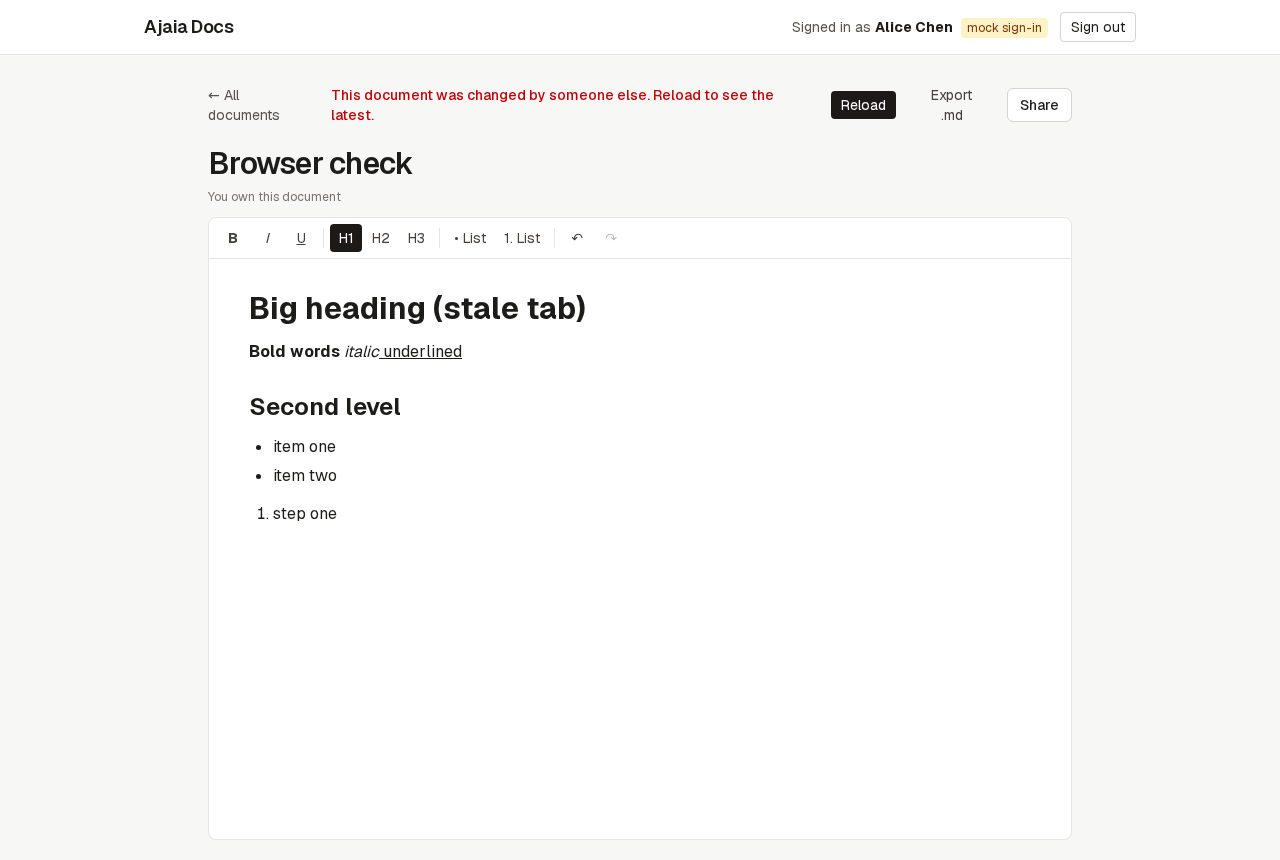
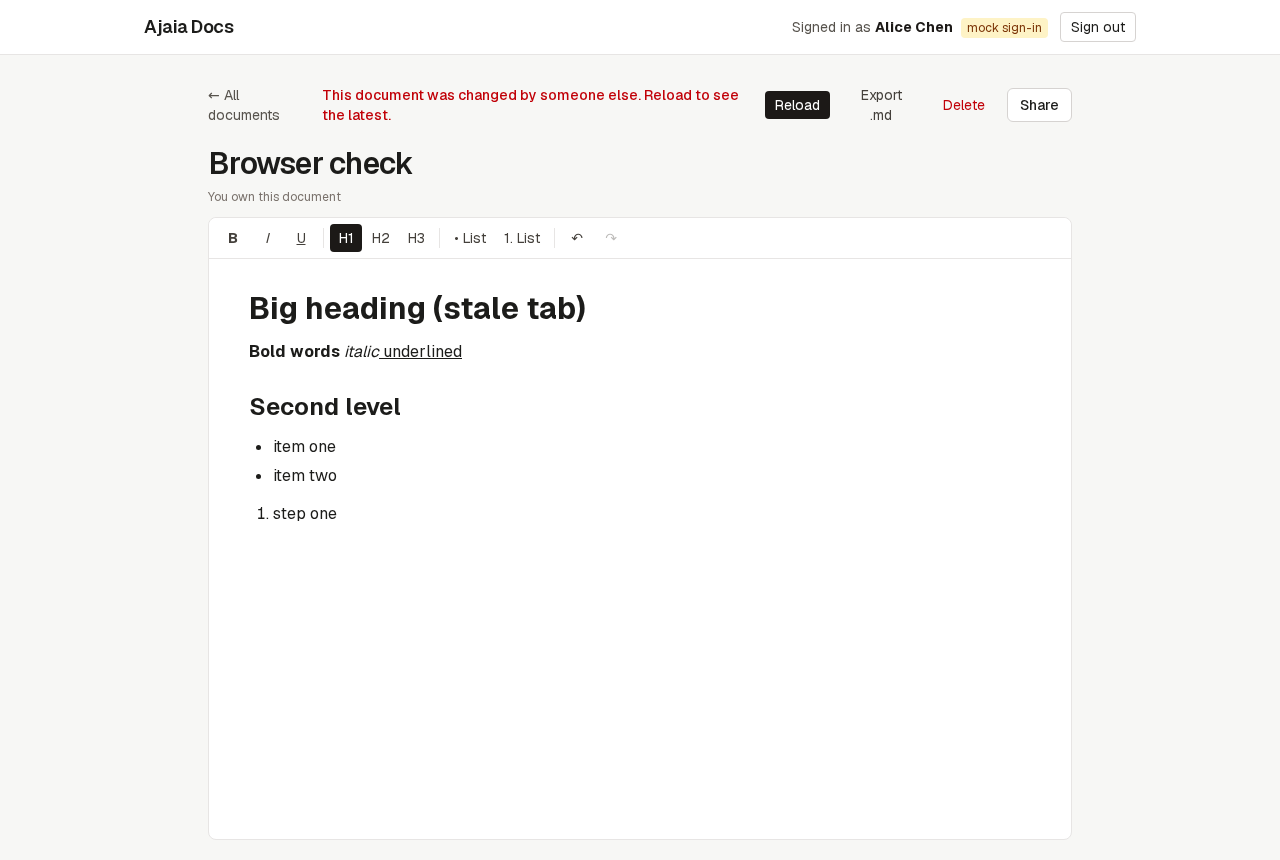
Second review fixes: owner delete button, dead code, doc accuracy; walkthrough script
- Delete button for owners (confirm, stop autosave, back home); browser
  check now deletes through the UI: 22/22 locally.
- Drop the undocumented .markdown alias and the unused UPLOAD_TYPES
  export so code matches what the UI and README promise.
- Remove unused create-next-app SVGs; add engines (Node >= 22).
- Correct the AI note: the plan was drafted in the first three minutes of
  the clock (plan file saved 7:46 PM), not before it.
- README: free-to-run line, typecheck command, screenshot links.

Changed region(s): [[0.25, 0.0907, 0.7812, 0.1512]]

diff --git a/components/DocEditor.tsx b/components/DocEditor.tsx
@@ -2,6 +2,7 @@
 
 import { EditorContent, useEditor } from "@tiptap/react";
 import Link from "next/link";
+import { useRouter } from "next/navigation";
 import { useCallback, useEffect, useRef, useState } from "react";
 import type { Role, Share, User } from "@/lib/db/types";
 import { extensions } from "@/lib/editor/extensions";
@@ -34,6 +35,8 @@ export function DocEditor({ doc, role, initialShares, shareCandidates }: Props) 
   const [errorDetail, setErrorDetail] = useState<string | null>(null);
   const [shareOpen, setShareOpen] = useState(false);
   const [currentTitle, setCurrentTitle] = useState(doc.title);
+  const router = useRouter();
+
 
   async function exportMarkdown() {
     if (!editor) return;
@@ -139,6 +142,22 @@ export function DocEditor({ doc, role, initialShares, shareCandidates }: Props) 
     };
   }, []);
 
+  async function deleteDoc() {
+    if (!window.confirm(`Delete "${currentTitle}"? This can't be undone.`)) return;
+    stopped.current = true; // no autosave into a deleted document
+    if (timer.current) clearTimeout(timer.current);
+    timer.current = null;
+    const res = await fetch(`/api/documents/${doc.id}`, { method: "DELETE" });
+    if (!res.ok) {
+      stopped.current = false;
+      setErrorDetail("Couldn't delete the document.");
+      setStatus("error");
+      return;
+    }
+    router.push("/");
+    router.refresh();
+  }
+
   return (
     <main className="mx-auto w-full max-w-4xl flex-1 px-4 py-6">
       <div className="mb-3 flex items-center justify-between gap-4 text-sm">
@@ -179,6 +198,11 @@ export function DocEditor({ doc, role, initialShares, shareCandidates }: Props) 
           >
             Export .md
           </button>
+          {role === "owner" && (
+            <button className="rounded-md px-2.5 py-1.5 text-red-700 hover:bg-red-50" onClick={deleteDoc}>
+              Delete
+            </button>
+          )}
           {role === "owner" && (
             <button
               className="rounded-md border border-stone-300 bg-white px-3 py-1.5 font-medium hover:bg-stone-100"

diff --git a/components/UploadButton.tsx b/components/UploadButton.tsx
@@ -3,7 +3,7 @@
 import { useRouter } from "next/navigation";
 import { useRef, useState } from "react";
 
-const ACCEPT = ".txt,.md,.markdown,.docx,text/plain,text/markdown,application/vnd.openxmlformats-officedocument.wordprocessingml.document";
+const ACCEPT = ".txt,.md,.docx,text/plain,text/markdown,application/vnd.openxmlformats-officedocument.wordprocessingml.document";
 
 export function UploadButton() {
   const router = useRouter();

diff --git a/tests/import.test.ts b/tests/import.test.ts
@@ -53,7 +53,7 @@ describe("file name helpers", () => {
   it("kindFromName", () => {
     expect(kindFromName("a.TXT")).toBe("txt");
     expect(kindFromName("a.md")).toBe("md");
-    expect(kindFromName("a.markdown")).toBe("md");
+    expect(kindFromName("a.markdown")).toBeNull(); // only the types the UI and README promise
     expect(kindFromName("a.docx")).toBe("docx");
     expect(kindFromName("a.pdf")).toBeNull();
   });

diff --git a/lib/import.ts b/lib/import.ts
@@ -112,7 +112,6 @@ export async function importFile(kind: ImportKind, data: Buffer): Promise<unknow
 export function kindFromName(name: string): ImportKind | null {
   const ext = name.toLowerCase().split(".").pop();
   if (ext === "txt" || ext === "md" || ext === "docx") return ext;
-  if (ext === "markdown") return "md";
   return null;
 }
 

diff --git a/lib/validation.ts b/lib/validation.ts
@@ -2,7 +2,6 @@ import { z } from "zod";
 
 export const MAX_CONTENT_BYTES = 512 * 1024; // serialized editor JSON
 export const MAX_UPLOAD_BYTES = 1024 * 1024; // 1 MB
-export const UPLOAD_TYPES = [".txt", ".md", ".docx"] as const;
 
 export const titleSchema = z
   .string()

diff --git a/docs/walkthrough-script.md b/docs/walkthrough-script.md
@@ -1,0 +1,83 @@
+# Walkthrough script (about 4 minutes, about 560 words)
+
+Read at a relaxed pace. Each section is one shot in the recording; the bracket says what's on screen. The same words
+appear as captions in the captions-only cut, so you can read along while it plays.
+
+---
+
+**1. Intro** [sign-in page]
+
+Hi, I'm Jonathan. This is Ajaia Docs, a small collaborative document editor I built for this assessment. It's live on
+Vercel with a Postgres database behind it. Sign-in is mocked on purpose: you pick one of three seeded people. The
+session cookie is signed, so nobody can edit it to become someone else.
+
+**2. Home** [Alice's home page]
+
+I'll continue as Alice. Her home page splits My documents from Shared with me, with the owner and a role badge on
+every row, so it's always clear what's yours and what was shared with you.
+
+**3. Create and rename** [new document, title being typed]
+
+A new document is one click, and I rename it by clicking the title.
+
+**4. Formatting and autosave** [typing a heading, bold text, a list; status turns to Saved]
+
+The editor does bold, italic, underline, three heading levels, bulleted and numbered lists, and undo. It saves about a
+second after I stop typing, and this status tells me whether my work is saved.
+
+**5. Refresh and export** [page reloads, formatting intact; Export button highlighted]
+
+If I refresh, everything comes back exactly. The document is stored as the editor's own JSON in Postgres, so the
+formatting survives the round trip. There's also a Markdown export, the one stretch item I added.
+
+**6. Share** [share dialog, Bob added as Viewer]
+
+Sharing. As the owner, I pick a person and a role, viewer or editor, and I can change it or revoke it here. I'll give
+Bob view access.
+
+**7. Bob, the viewer** [Bob's home, then the document read-only]
+
+Now as Bob. The document shows up under Shared with me, marked Viewer. He gets a read-only editor with no toolbar, and
+the server refuses his edits too, not just the interface.
+
+**8. Carol, no access** [Carol opens the same link: Document not found]
+
+Carol was never given access. The same link gives her a 404, exactly like a document that doesn't exist, so the app
+never confirms it's there.
+
+**9. Upload** [Alice uploads a Word file; it opens as a new document]
+
+Back as Alice: upload. A text, Markdown, or Word file up to one megabyte becomes a new editable document, and the
+headings, lists and bold come through. The editor's schema drops anything it doesn't understand, which is what keeps
+uploads safe.
+
+**10. Conflict safety** [someone else saves; the editor shows the reload message]
+
+This is the part I cared most about. Two people editing the same document can't silently overwrite each other. Every
+save carries the version it started from. Here someone else just saved, so the server refuses my stale save, and the
+editor tells me to reload instead of quietly losing their work.
+
+**11. What I cut** [architecture note, the cuts table]
+
+What I deprioritized on purpose: real-time co-editing, comments, version history, real sign-in, and images.
+Real-time needs a sync server, and the version check already covers the real risk, which is lost work. Each cut is in
+the architecture note with what it would take.
+
+**12. Key decisions** [architecture note, the access table]
+
+Two decisions worth naming. One function decides every user's role, and every route and page calls it, so access
+lives in one place. And the data layer takes a plain query function, so the eighteen tests run the real SQL schema in
+memory, with no Docker and no network.
+
+**13. How AI helped** [AI workflow note, the changed-or-rejected table]
+
+How I used AI. A few minutes into the clock, Claude Code turned the brief into a build plan, which I approved and then
+built from in a fresh session. It wrote most of the code. A helper agent wrote the tests in parallel, and a second
+agent reviewed the code cold and found three real bugs. One lost the last edits on large documents. Before fixing it,
+I had it reproduce the bug with a browser test that fails on the old code and passes on the fix. An automated security
+review caught a zip-bomb risk in Word uploads, twice. And everything was checked on the live site with scripted API and
+browser tests, not just locally.
+
+**14. Close** [Alice's home page]
+
+The live link, the code, and these notes are all in the Drive folder. Thanks for watching.

diff --git a/AI_WORKFLOW.md b/AI_WORKFLOW.md
@@ -15,9 +15,10 @@ reconstructed at the end.
 
 ## How the work was split
 
-1. **Plan before code.** Before the clock started, Claude Code drafted the build plan from the assignment text in my
-   main terminal: the product slice, what's out, the stack, and phase checkpoints with clock times. I approved it.
-   The build then ran in a fresh session from that plan.
+1. **Plan before code.** In the first three minutes of the clock (the plan file was saved at 7:46 PM; the timer
+   started 7:43 PM), Claude Code turned the assignment text into a build plan in my main terminal: the product slice,
+   what's out, the stack, and phase checkpoints with clock times. I approved it. Account prep (Vercel sign-in, a test
+   deploy) was done earlier that day. The build then ran in a fresh session from that plan.
 2. **Deploy first.** The first deploy went out before feature work was clicked through, so every later check ran
    where the reviewer will look.
 3. **Parallel where independent.** Tests went to a helper agent with a narrow file scope while the main session built
@@ -27,7 +28,7 @@ reconstructed at the end.
 ## The prompts, word for word
 
 These are what I typed in the build session, in order. The plan-drafting conversation happened in my main terminal
-before the clock and is summarized above.
+in the first three minutes and is summarized above.
 
 1. `Read` (to start; the session found the approved plan file and began Phase 1)
 2. `are you making it docker first like all our other projects too?`

diff --git a/README.md b/README.md
@@ -43,7 +43,8 @@ to Vercel from source, so a container would only have added setup time.
 
 ## Run it locally
 
-Needs Node 22+ and a Postgres URL (Neon free tier works).
+Needs Node 22 or newer (built and tested on Node 24) and a Postgres URL. The Neon free tier works: no paid services
+are needed to run or review this.
 
 ```bash
 npm install
@@ -66,9 +67,16 @@ With a linked Vercel project, `vercel env pull .env.local` fills the env file in
 | `npm test` | Vitest (18 tests): access rules, stale-save rejection, import, zip-bomb guards, export, on an in-memory Postgres (PGlite) running the real `db/schema.sql`. No Docker, no network. |
 | `npm run build` | Production build (TypeScript checked). |
 | `npm run lint` | ESLint. |
+| `npm run typecheck` | TypeScript, no emit. |
 | `npm run db:seed` | Schema + seed against `DATABASE_URL`. |
 | `npm run check:api -- <url>` | Calls every API route as Alice, Bob and Carol and prints status codes (401, 403, 404, 409, uploads). |
 | `npm run check:browser -- <url>` | Playwright drives the real editor: create, format, autosave, reload, export, share, viewer, 404, two-tab conflict. Saves `docs/screenshots/`. |
+
+## Screenshots
+
+From the production run of `npm run check:browser`: [home](docs/screenshots/1-home-alice.png),
+[editor](docs/screenshots/2-editor-formatting.png), [share dialog](docs/screenshots/3-share-dialog.png),
+[viewer](docs/screenshots/4-viewer-bob.png), [conflict](docs/screenshots/5-conflict.png).
 
 ## Docs
 

diff --git a/ARCHITECTURE.md b/ARCHITECTURE.md
@@ -119,7 +119,7 @@ stranger, upgrade, revoke, malformed id), stale-version refusal, Markdown/.docx/
 stripping, both zip-bomb guards, Markdown export.
 
 Beyond unit tests, two scripts check the deployed app: `scripts/smoke.sh` (every API route as each user) and
-`scripts/browser-check.mjs` (Playwright driving the real editor, 20 checks, including the two-tab conflict).
+`scripts/browser-check.mjs` (Playwright driving the real editor, 22 checks, including the two-tab conflict and deleting from the UI).
 
 ## Deliberate cuts
 

diff --git a/SUBMISSION.md b/SUBMISSION.md
@@ -86,7 +86,7 @@ The full log, with every correction and how it was caught, is in AI_WORKFLOW.md.
 <details>
 <summary>The prompts, word for word (8)</summary>
 
-Prompt 1, minute 5, to Claude Code (Opus). Start the build from the plan approved before the clock.
+Prompt 1, minute 5, to Claude Code (Opus). Start the build from the plan I approved at minute 3.
 
 ```text
 Read
